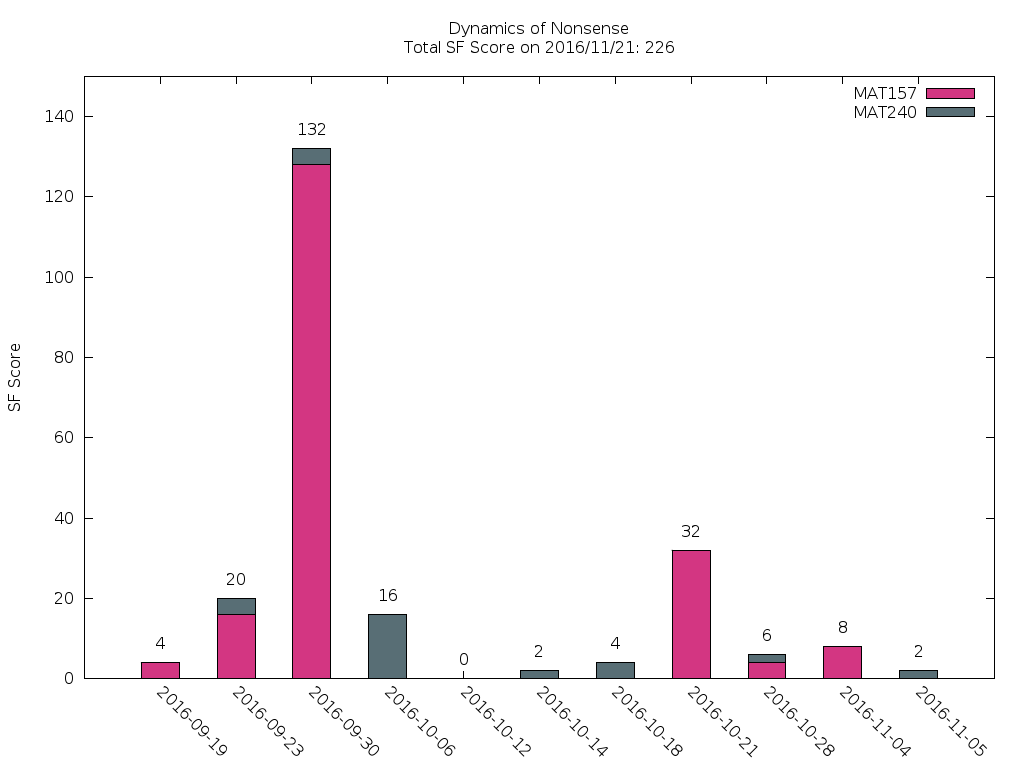
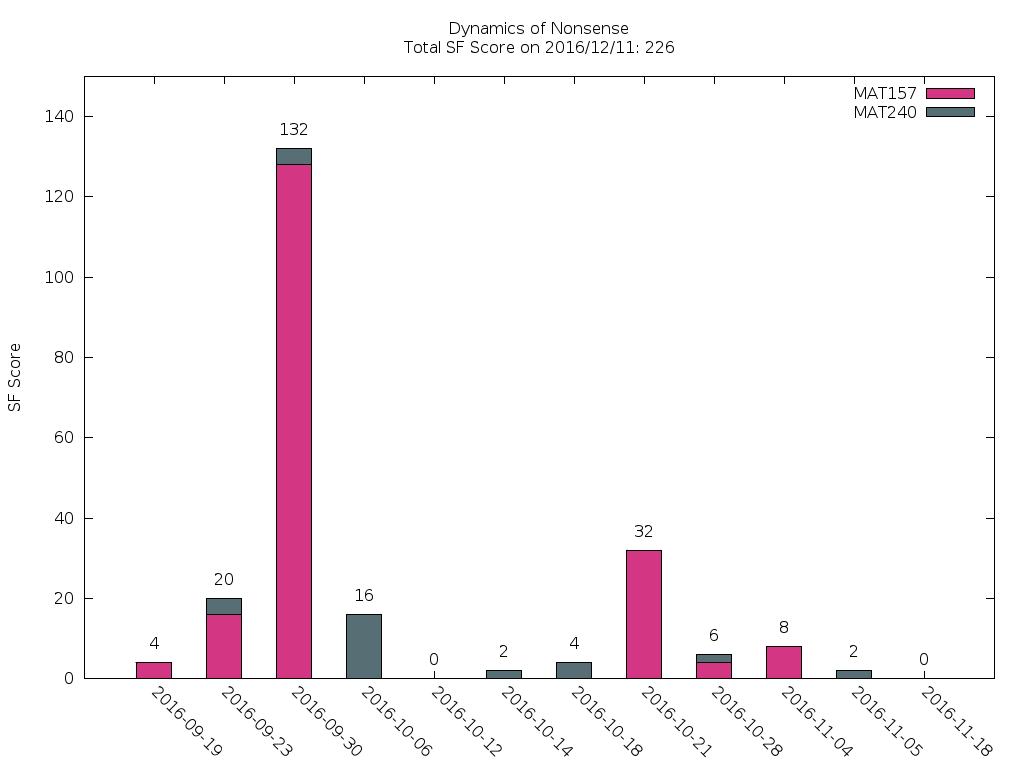
Yet another weblog update.
Source commit: 033b0adf694df531d37554508ba2f0bd40834c03
Nikola version: 7.8.0

diff --git a/arbeit/index.html b/arbeit/index.html
@@ -85,13 +85,16 @@ Midterm Exam
 <li>
 <a href="#sec-3-2">Linear Algebra</a>
 <ul>
-<li><a href="#sec-3-2-1">20161105: Pset VI</a></li>
-<li><a href="#sec-3-2-2">20161028: Pset V</a></li>
-<li><a href="#sec-3-2-3">20161017: Midterm</a></li>
-<li><a href="#sec-3-2-4">20161014: Pset IV</a></li>
-<li><a href="#sec-3-2-5">20161006: Pset III</a></li>
-<li><a href="#sec-3-2-6">20160930: Pset II</a></li>
-<li><a href="#sec-3-2-7">20160923MAT240: Pset I</a></li>
+<li><a href="#sec-3-2-1">20161202: Pset IX</a></li>
+<li><a href="#sec-3-2-2">20161124: Pset VIII</a></li>
+<li><a href="#sec-3-2-3">20161118: Pset VII</a></li>
+<li><a href="#sec-3-2-4">20161105: Pset VI</a></li>
+<li><a href="#sec-3-2-5">20161028: Pset V</a></li>
+<li><a href="#sec-3-2-6">20161017: Midterm</a></li>
+<li><a href="#sec-3-2-7">20161014: Pset IV</a></li>
+<li><a href="#sec-3-2-8">20161006: Pset III</a></li>
+<li><a href="#sec-3-2-9">20160930: Pset II</a></li>
+<li><a href="#sec-3-2-10">20160923MAT240: Pset I</a></li>
 </ul>
 </li>
 </ul>
@@ -356,8 +359,125 @@ want to show, and review your results
 <div class="outline-text-3" id="text-3-2">
 </div>
 <div id="outline-container-sec-3-2-1" class="outline-4">
-<h4 id="sec-3-2-1">20161105: Pset VI</h4>
+<h4 id="sec-3-2-1">20161202: Pset IX</h4>
 <div class="outline-text-4" id="text-3-2-1">
+<p>
+Nonsense: 18.0%
+</p>
+
+<ul class="org-ul">
+<li>
+<a href="https://github.com/sdll/NOTES/blob/master/ARBEIT/20161201MAT240ARBEIT_1.pdf">20161201 MAT240: 1</a>
+
+<p>
+Be careful with how you count.
+</p>
+</li>
+
+<li>
+<a href="https://github.com/sdll/NOTES/blob/master/ARBEIT/20161201MAT240ARBEIT_2.pdf">20161201 MAT240: 2</a>
+
+<p>
+The argument lacks the substance – a mishmash of terminology does
+no good to the reasoning.
+</p>
+
+<p>
+Let $$q_0(t) = 1$$, $$q_1(t) = x$$, $$q_2(t) = x^2$$, $$q_3(t) = x^3$$.
+</p>
+
+<p>
+Notice that $$(p_0\ p_1\ p_2\ p_3) = (q_0\ q_1\ q_2\ q_3)C$$ for
+some $$C\in M_{4\times 4}(\mathbb{F})$$ indepenedent of
+$$t$$. Notice also that $$C$$ is invertible if and only if
+$$\{p_i\}$$ is a basis.
+</p>
+
+<p>
+Then argue that $$f(t) = 12\det(C)$$.
+</p>
+</li>
+
+<li>
+<a href="https://github.com/sdll/NOTES/blob/master/ARBEIT/20161201MAT240ARBEIT_3.pdf">20161201 MAT240: 3</a>
+</li>
+<li>
+<a href="https://github.com/sdll/NOTES/blob/master/ARBEIT/20161201MAT240ARBEIT_4.pdf">20161201 MAT240: 4</a>
+
+<p>
+Use less abstruse language.
+</p>
+
+<p>
+The phrase "The same arbitrary non-zero" is gibberish in the given
+context.
+</p>
+</li>
+</ul>
+</div>
+</div>
+
+<div id="outline-container-sec-3-2-2" class="outline-4">
+<h4 id="sec-3-2-2">20161124: Pset VIII</h4>
+<div class="outline-text-4" id="text-3-2-2">
+<p>
+Nonsense: 0.00%
+</p>
+
+<ul class="org-ul">
+<li>
+<a href="https://github.com/sdll/NOTES/blob/master/ARBEIT/20161124MAT240ARBEIT_1.pdf">20161124 MAT240: 1</a>
+</li>
+<li>
+<a href="https://github.com/sdll/NOTES/blob/master/ARBEIT/20161124MAT240ARBEIT_2.pdf">20161124 MAT240: 2</a>
+
+<p>
+Do not put equal signs between things which are not equal.
+</p>
+
+<p>
+Avoid superfluous calculations (no need to look at the case
+$$2=0$$ separately).
+</p>
+</li>
+
+<li>
+<a href="https://github.com/sdll/NOTES/blob/master/ARBEIT/20161124MAT240ARBEIT_3.pdf">20161124 MAT240: 3</a>
+</li>
+<li>
+<a href="https://github.com/sdll/NOTES/blob/master/ARBEIT/20161124MAT240ARBEIT_4.pdf">20161124 MAT240: 4</a>
+</li>
+</ul>
+</div>
+</div>
+
+<div id="outline-container-sec-3-2-3" class="outline-4">
+<h4 id="sec-3-2-3">20161118: Pset VII</h4>
+<div class="outline-text-4" id="text-3-2-3">
+<p>
+Nonsense: 0.00%
+</p>
+
+<ul class="org-ul">
+<li>
+<a href="https://github.com/sdll/NOTES/blob/master/ARBEIT/ARBEIT20161118MAT240_1.pdf">20161118 MAT240: 1</a>
+</li>
+<li>
+<a href="https://github.com/sdll/NOTES/blob/master/ARBEIT/ARBEIT20161118MAT240_2.pdf">20161118 MAT240: 2</a>
+</li>
+<li>
+<a href="https://github.com/sdll/NOTES/blob/master/ARBEIT/ARBEIT20161118MAT240_3.pdf">20161118 MAT240: 3</a>
+</li>
+<li>
+<a href="https://github.com/sdll/NOTES/blob/master/ARBEIT/ARBEIT20161118MAT240_4.pdf">20161118 MAT240: 4</a>
+</li>
+</ul>
+</div>
+</div>
+
+<div id="outline-container-sec-3-2-4" class="outline-4">
+<h4 id="sec-3-2-4">20161105: Pset VI</h4>
+<div class="outline-text-4" id="text-3-2-4">
 <p>
 Nonsense: 8.00%
 </p>
@@ -413,9 +533,9 @@ and $$V=W\oplus W'$$.
 </div>
 </div>
 
-<div id="outline-container-sec-3-2-2" class="outline-4">
-<h4 id="sec-3-2-2">20161028: Pset V</h4>
-<div class="outline-text-4" id="text-3-2-2">
+<div id="outline-container-sec-3-2-5" class="outline-4">
+<h4 id="sec-3-2-5">20161028: Pset V</h4>
+<div class="outline-text-4" id="text-3-2-5">
 <p>
 Nonsense: 4.00%
 </p>
@@ -444,9 +564,9 @@ condition for every vector in $$W$$ if and only if $$v\neq
 </div>
 </div>
 
-<div id="outline-container-sec-3-2-3" class="outline-4">
-<h4 id="sec-3-2-3">20161017: Midterm</h4>
-<div class="outline-text-4" id="text-3-2-3">
+<div id="outline-container-sec-3-2-6" class="outline-4">
+<h4 id="sec-3-2-6">20161017: Midterm</h4>
+<div class="outline-text-4" id="text-3-2-6">
 <p>
 Nonsense: 3.75%
 </p>
@@ -466,9 +586,9 @@ their diagonal special.
 
 
 
-<div id="outline-container-sec-3-2-4" class="outline-4">
-<h4 id="sec-3-2-4">20161014: Pset IV</h4>
-<div class="outline-text-4" id="text-3-2-4">
+<div id="outline-container-sec-3-2-7" class="outline-4">
+<h4 id="sec-3-2-7">20161014: Pset IV</h4>
+<div class="outline-text-4" id="text-3-2-7">
 <p>
 Nonsense: 2.00%
 </p>
@@ -498,9 +618,9 @@ Argue about the dimensions to claim a basis.
 </div>
 </div>
 
-<div id="outline-container-sec-3-2-5" class="outline-4">
-<h4 id="sec-3-2-5">20161006: Pset III</h4>
-<div class="outline-text-4" id="text-3-2-5">
+<div id="outline-container-sec-3-2-8" class="outline-4">
+<h4 id="sec-3-2-8">20161006: Pset III</h4>
+<div class="outline-text-4" id="text-3-2-8">
 <p>
 Nonsense: 37.0%
 </p>
@@ -568,9 +688,9 @@ the beginning.
 </div>
 </div>
 
-<div id="outline-container-sec-3-2-6" class="outline-4">
-<h4 id="sec-3-2-6">20160930: Pset II</h4>
-<div class="outline-text-4" id="text-3-2-6">
+<div id="outline-container-sec-3-2-9" class="outline-4">
+<h4 id="sec-3-2-9">20160930: Pset II</h4>
+<div class="outline-text-4" id="text-3-2-9">
 <p>
 Nonsense: 12.0%
 </p>
@@ -676,9 +796,9 @@ must be in $$W$$. Hence, all the elements of $$S$$ are in $$W$$.
 </div>
 </div>
 
-<div id="outline-container-sec-3-2-7" class="outline-4">
-<h4 id="sec-3-2-7">20160923MAT240: Pset I</h4>
-<div class="outline-text-4" id="text-3-2-7">
+<div id="outline-container-sec-3-2-10" class="outline-4">
+<h4 id="sec-3-2-10">20160923MAT240: Pset I</h4>
+<div class="outline-text-4" id="text-3-2-10">
 <p>
 Nonsense: 10.0%
 </p>
